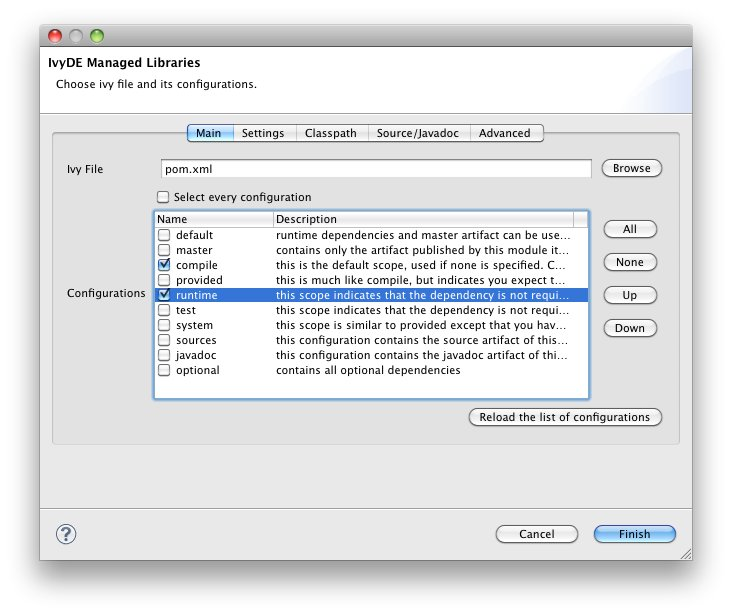
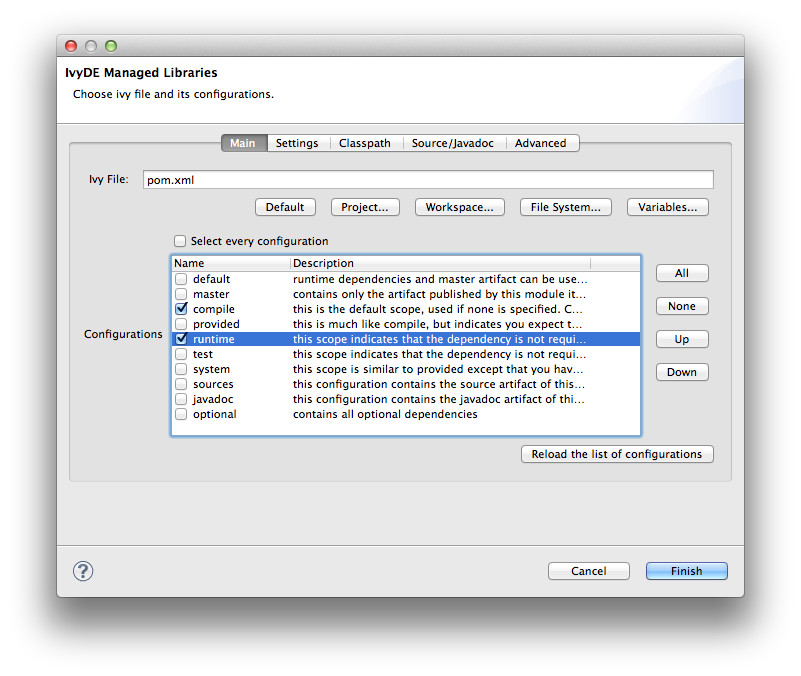
Update of the screenshots
git-svn-id: http://svn.apache.org/repos/asf/ant@1478158 13f79535-47bb-0310-9956-ffa450edef68

Changed region(s): [[0.0301, 0.0309, 0.9617, 0.9268]]

diff --git a/ivy/ivyde/trunk/doc/index.html b/ivy/ivyde/trunk/doc/index.html
@@ -28,12 +28,13 @@ Apache IvyDE Eclipse plugin integrates Apache Ivy's dependency management into E
 
 A summary of the features it provides follows:
 <ul>
-<li><a href="cp_container.html">Managed classpath container</a>: automatic downloads, access to the Ivy "resolve" task from your IDE, and a <a href="cpc/workspace.html">feature</a> allowing you to develop interdependent multi-module applications in one workspace.</li>
+<li><a href="cp_container.html">Managed classpath container</a>: for Java projects, automatic build of you classpath with resolve and downloads of jars and
+    sources of your dependencies, and also <a href="cpc/workspace.html">managed project inter dependencies</a> within the workspace.</li>
 <li><a href="ivyeditor.html">Ivy XML files editor</a>: creation wizard, html preview and completion for Ivy XML tags, attributes, and attribute values.</li>
 <li><a href="settingseditor.html">Ivy settings files editor</a>: completion for XML tags, attributes, and attribute values.</li>
 <li><a href="console.html">Ivy console</a>: presents every log from Ivy to assist in debugging a failing resolve.</li>
 <li><a href="revdepexplorer.html">Reverse Dependency Explorer</a>: helps you work with conflicting dependencies amongst several projects.</li>
-<li>Resolve and retrieve for non Java project: use Ivy within Eclipse to manage files non necessarly Java-related</li>
+<li><a href="non-java.html">Resolve and retrieve for non Java project</a>: automation of the retrival of your dependencies in your non Java project</li>
 </ul>
 
 Apache IvyDE can be also used with other plugins like <a href="cpc/wtp.html">WTP</a> and <a href="ant.html">Apache Ant</a>.

diff --git a/ivy/ivyde/trunk/doc/preferences.html b/ivy/ivyde/trunk/doc/preferences.html
@@ -34,6 +34,8 @@ The global configuration can be found in the preferences of Eclipse (menu Window
 
 <h4>Offline</h4>
 <p>If checked, it will force Ivy to never check resources via any network and trust its cache</p>
+<h4>Open the Ivy console on startup</h4>
+<p>If checked, the Ivy console will be opened on startup so that every log from Ivy will be printed. This is especially usefull when looking for debug log from IvyDE starting up.</p>
 <h4>On Eclipse startup:</h4>
 <p>Specifies what Apache IvyDE should do in every project containing an IvyDE managed classpath container when Eclipse&#153; is starting up.</p>
 <h4>On Ivy file change:</h4>
@@ -61,6 +63,8 @@ The global configuration can be found in the preferences of Eclipse (menu Window
 
 <h4>Resolve dependencies in workpace:</h4>
 <p>Apache IvyDE allows Ivy dependencies between projects in the workspace to be realized through project references rather than jars from the repository.  See the <a href="cpc/workspace.html">documentation</a> for further information on this feature.</p>
+<h4>Read OSGi metadata:</h4>
+<p>If your classpath is based on jars which are actually OSGi bundles, checking this option will make IvyDE read the jar manifests and setup the specific OSGi visibility constraints.</p>
 <h4>Accepted types:</h4>
 <p>A comma separated list of extensions which will make IvyDE add the artifact to the classpath. Setting <tt>*</tt> will make very kind of type accepted. Note that a type specified as a <a href="#mapping">source or javadoc type</a> won't be accepted in any manner.</p>
 <h4>Order of the classpath entries:</h4>

diff --git a/ivy/ivyde/trunk/doc/cpc/edit.html b/ivy/ivyde/trunk/doc/cpc/edit.html
@@ -30,8 +30,14 @@ These properties can be accessed by the context menu of the IvyDE classpath cont
 
 <center><img src="../images/cp_configuration.jpg"></center>
 
-You can also edit it via the build path configuration. Open the build path configuration dialog, select the "Libraries" panel and select the IvyDE classpath container. Then click on the "Edit" button: the IvyDE classpath container configuration dialog will pop up.
+You can also edit it via the <b>build path</b> configuration:
+<ol>
+    <li>open the build path configuration dialog, select the "Libraries" panel and select the IvyDE classpath container.</li>
+    <li>then click on the "Edit" button: the IvyDE classpath container configuration dialog will pop up.</li>
+</ol>
+
 This is particularly useful when Eclipse hides the empty classpath containers (since Eclipse 3.3).  When the container is empty, this is the only way to trigger a resolve on this project.
+
 <br/><br/>
 <center><img src="../images/build_path_edit.jpg"></center>
 <br/>

diff --git a/ivy/ivyde/trunk/doc/eclipsevar.html b/ivy/ivyde/trunk/doc/eclipsevar.html
@@ -27,7 +27,7 @@
 	<textarea id="xooki-source">
 Eclipse contains a <a href="http://help.eclipse.org/galileo/index.jsp?topic=/org.eclipse.jdt.doc.user/reference/preferences/run-debug/ref-string_substitution.htm">string substitution mecanism</a>. This feature allows you to specify a path location that can be shared between developers.
 
-Apache IvyDE uses it to find the ivysettings.xml and properties files in both the <a href="preferences.html#settings">glogal preference page</a> and the <a href="cpc/create.html#localconf">project specific preference page</a>.
+Apache IvyDE uses it to find the ivysettings.xml and properties files in both the <a href="preferences.html#settings">global preference page</a> and the <a href="cpc/create.html#localconf">project specific preference page</a>.
 
 Using the "Workspace..." button will open a window to choose a file in the workspace. Apache IvyDE will automatically fill the field with the proper variable.
 

diff --git a/ivy/ivyde/trunk/doc/console.html b/ivy/ivyde/trunk/doc/console.html
@@ -40,6 +40,10 @@ The colors in the console correspond to the different log levels. Here is the de
 <li>Error: red</li>
 </ul>
 
+There are two kinds of logs. The ones from Ivy itself and the ones from IvyDE. The ones from Ivy are the ones you should be used to see when you use it via Ant.
+
+The IvyDE logs are here to help you understand what IvyDE actually do when launching a resolve or refreshing a project. They can be espacially usefull in debug mode when reporting a bug to the developpers of IvyDE.
+
 To change the level of logging in the console, use the button in the view:
 <br/>
 <center><img src="images/ivy_console_debug.jpg"></center><br/>
